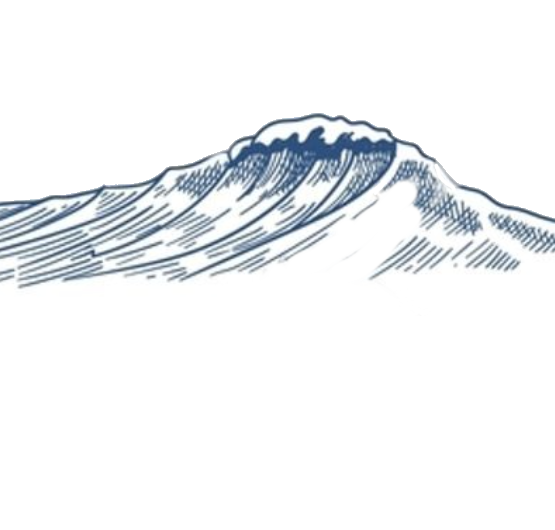
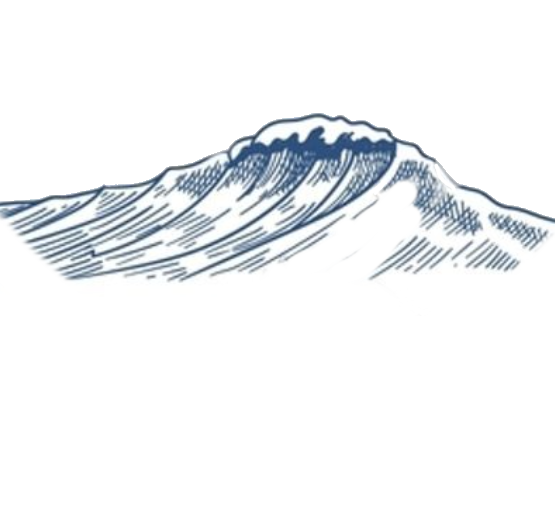
various ajustments, use WASD by default

Changed region(s): [[0.0, 0.3925, 0.1225, 0.5434], [0.9495, 0.4226, 1.0, 0.483]]

diff --git a/src/components/gameplay/common/blob/fragmentShader.tsx b/src/components/gameplay/common/blob/fragmentShader.tsx
@@ -1,14 +1,22 @@
 const fragmentShader = `
 uniform float u_intensity;
 uniform float u_time;
-
+uniform vec3 uColor1;
+uniform vec3 uColor2;
+uniform vec3 uColor3;
+varying vec3 vNormal;
 varying vec2 vUv;
 varying float vDisplacement;
 
 void main() {
+
     float distort = 2.0 * vDisplacement * u_intensity * sin(vUv.y * 10.0 + u_time);
     vec3 color = vec3(abs(vUv - 0.5) * 2.0  * (1.0 - distort), 1.0) ;
-    gl_FragColor = vec4(color, 1.0);
+ 
+    vec3 normalColor = normalize(vNormal) * 0.5 + 0.5;
+    vec3 blendedColor = mix(uColor1, uColor2, normalColor.x);
+    blendedColor = mix(blendedColor, uColor3, normalColor.y);
+    gl_FragColor = vec4(blendedColor, 1.0);
 }
 
 `;

diff --git a/src/components/gameplay/common/blob/Blob.tsx b/src/components/gameplay/common/blob/Blob.tsx
@@ -2,8 +2,7 @@ import React, { useMemo, useRef } from "react";
 import vertexShader from "./vertexShader";
 import fragmentShader from "./fragmentShader";
 import { useFrame } from "@react-three/fiber";
-import { MathUtils, type Mesh } from "three";
-import { DrawingMaterial } from '@shaders/drawing/DrawingMaterial.tsx';
+import { Color, MathUtils, type Mesh } from "three";
 
 export function Blob() {
     const mesh = useRef<Mesh>();
@@ -12,9 +11,10 @@ export function Blob() {
         return {
             u_time: { value: 0 },
             u_intensity: { value: 0.3 },
-            u_color1:{value:"#44FFaa"},
-            u_color2:{value:"#44aFfa"},
-            u_color3:{value:"#44FFff"}
+            uColor1:{value:new Color("#77aaaa")},
+            uColor2:{value:new Color("#335A7b")},
+            uColor3:{value:new Color("#88dFfa")},
+
         };
     });
 

diff --git a/src/pages/MapPlayPage.tsx b/src/pages/MapPlayPage.tsx
@@ -9,7 +9,7 @@ import type { KaseLandscape } from '@components/gameplay/landscape/service.ts';
 import { loadMapForPlay, MapToPlay } from '@utils/mapPlayStorage';
 import { TableauToThreeContent } from '@components/gameplay/landscape/TableauToThreeContent.tsx';
 import { FPSPlayer } from '@components/gameplay/controller/FPSPlayer';
-import { KEYBIND_PRESETS } from '@config/keybindPresets.ts';
+import { KEYBIND_PRESETS, type KeybindPresetType } from '@config/keybindPresets.ts';
 import { GroundPlane } from '@components/gameplay/oldGameplay/GroundPlane.tsx';
 import { InventoryList } from '@components/gameplay/inventory/InventoryList';
 import { createPhotoInventoryItem, readInventory, type InventoryItem, writeInventory } from '@components/gameplay/inventory/inventory.model';
@@ -57,13 +57,13 @@ export function MapPlayPage() {
     const [tableau] = useState<HexagonalTableau<KaseLandscape> | null>(() => initialMap?.tableau ?? null);
     const [gameMap] = useState<MapToPlay | null>(() => initialMap ?? null);
     const [error] = useState<string | null>(() => initialMap ? null : 'No map available to play. Please create a map in the editor first.');
-    const [solutionUrl] = useState<string | null>('/inventory/camera.png');
-    const [inventoryItems, setInventoryItems] = useState<InventoryItem[]>(() => readInventory('/inventory/camera.png'));
+    const [solutionUrl] = useState<string | null>('./inventory/camera.png');
+    const [inventoryItems, setInventoryItems] = useState<InventoryItem[]>(() => readInventory('./inventory/camera.png'));
     const [playerPosition, setPlayerPosition] = useState<Vector3 | null>(() => initialMap ? new Vector3(initialMap.start.x, 2, initialMap.start.y) : null);
     const cameraSolution = useRef<PerspectiveCameraType | null>(null);
     const captureViewRef = useRef<(() => Promise<string>) | null>(null);
-    const keybinds = KEYBIND_PRESETS.AZERTY;
-
+    const keybinds = KEYBIND_PRESETS.WASD;
+    const [keybindPreset, setKeybindPreset] = useState<KeybindPresetType>('WASD')
     const registerCaptureView = useCallback((capture: () => Promise<string>) => {
         captureViewRef.current = capture;
     }, []);

diff --git a/src/components/gameplay/common/blob/vertexShader.tsx b/src/components/gameplay/common/blob/vertexShader.tsx
@@ -4,6 +4,7 @@ uniform float u_time;
 uniform float u_color1;
 uniform float u_color2;
 uniform float u_color3;
+varying vec3 vNormal;
 
 varying vec2 vUv;
 varying float vDisplacement;
@@ -100,11 +101,12 @@ void main() {
     vDisplacement = cnoise(position + vec3(2.0 * u_time));
   
     vec3 newPosition = position + normal * (u_intensity * vDisplacement);
+    
   
     vec4 modelPosition = modelMatrix * vec4(newPosition, 1.0);
     vec4 viewPosition = viewMatrix * modelPosition;
     vec4 projectedPosition = projectionMatrix * viewPosition;
-  
+  vNormal = normalize(normalMatrix * normal);
     gl_Position = projectedPosition;
 }
 `;

diff --git a/src/components/gameplay/oldGameplay/GroundPlane.tsx b/src/components/gameplay/oldGameplay/GroundPlane.tsx
@@ -16,7 +16,7 @@ export function GroundPlane({ position, size }: GroundPlaneProps) {
   // On décale le centre vers le bas de THICKNESS/2 pour que la surface soit à y=position.y
   const groundY: [number, number, number] = [position[0], position[1] - THICKNESS / 2, position[2]]
 
-  const texture = useTexture("./level/drawing/hatch_3.jpg")
+  const texture = useTexture("./waveBackground.jpg")
   return (
     <RigidBody type="fixed" position={groundY} colliders="cuboid">
       {/* boxGeometry a une épaisseur réelle : plus de collisions fantômes */}
@@ -25,7 +25,7 @@ export function GroundPlane({ position, size }: GroundPlaneProps) {
           <meshStandardMaterial fogColor={"white"}></meshStandardMaterial>
 
 
-          <superflatBisMaterial uTexture={texture}   fogColor={new Color(0x005aa)}></superflatBisMaterial>
+          <superflatBisMaterial uTexture={texture}  ratioX={4} ratioY={4} fogColor={new Color(0x4A85CE)}></superflatBisMaterial>
       </mesh>
     </RigidBody>
   )

diff --git a/src/pages/GameplayPage.tsx b/src/pages/GameplayPage.tsx
@@ -3,12 +3,13 @@ import { useNavigate } from 'react-router-dom';
 import { Euler, Vector2 } from 'three';
 import { createTestTableau } from '@utils/mapGenerator';
 import { MapToPlay, saveMapForPlay } from '@utils/mapPlayStorage';
+import { initTableauAndLab } from '@components/gameplay/landscape/service.ts';
 
 export function GameplayPage() {
   const navigate = useNavigate();
 
   useEffect(() => {
-    const tableau = createTestTableau(15, 15);
+    const tableau = initTableauAndLab();
 
     const playableKases = tableau.allKases().filter((kase) => kase.content!= 'mountain'&&kase.content!= 'tree');
     const start = playableKases[Math.floor(playableKases.length*Math.random())] ||tableau.allKases()[0];

diff --git a/src/utils/mapGenerator.ts b/src/utils/mapGenerator.ts
@@ -70,7 +70,8 @@ export function createTestTableau(width: number, height: number): HexagonalTable
 
       if (distance < radius) {
         const kase = tableau.getKase(x, y);
-        if (kase) kase.content = 'water';
+
+        if (kase && Math.random()<0.5) kase.content = 'grass';
       }
     }
   }

diff --git a/src/components/gameplay/inventory/inventory.model.ts b/src/components/gameplay/inventory/inventory.model.ts
@@ -53,7 +53,7 @@ export function createPhotoInventoryItem(urlImage: string, index = 1): Inventory
   }
 }
 
-export function readInventory(initialUrl = '/inventory/camera.png'): InventoryItem[] {
+export function readInventory(initialUrl = './inventory/camera.png'): InventoryItem[] {
  return [createCameraInventoryItem(initialUrl)]
 }
 